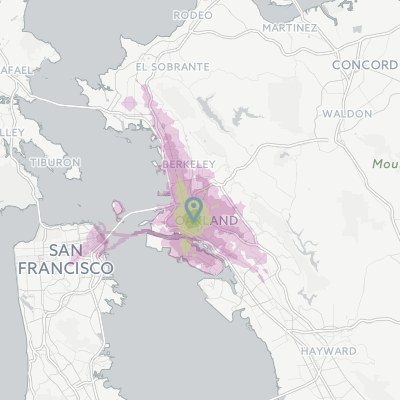
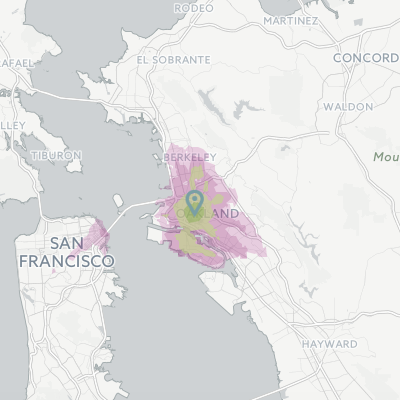
update isochrone images for service changes

diff --git a/explorer/tutorial.md b/explorer/tutorial.md
@@ -118,7 +118,7 @@ In earlier exercises, your requests have been to the Transitland API, but isochr
 
 ## See the effect on travel times if you remove certain operators or routes
 
-You can exclude operators and routes to see the effect on the resulting isochrones. You might want to do this to see what happens if there is a maintenance issue that causes subway service outage or an event or parade that closes a street. In addition, perhaps you have purchased a ticket that is valid on one transit agency, so you want to see where you can travel using only that operator.
+You can exclude operators and routes to see the effect on the resulting isochrones. You might want to do this to determine what happens if there is a maintenance issue that causes a subway service outage or an event or a parade that closes a street and buses can no longer run there. In addition, perhaps you have purchased a ticket that is valid on one transit agency, so you want to see where you can travel using only that operator.
 
 1. Make sure you have a point on the map. If not, repeat the search for `2201 Broadway, Oakland` to return to your original location, and click `Generate isochrones`.
 2. Click `transit`. Optionally, choose the date and time of your departure, if you want to travel at a time different from the present. _Note: These images reflect travel during a weekday in morning commute hours._
